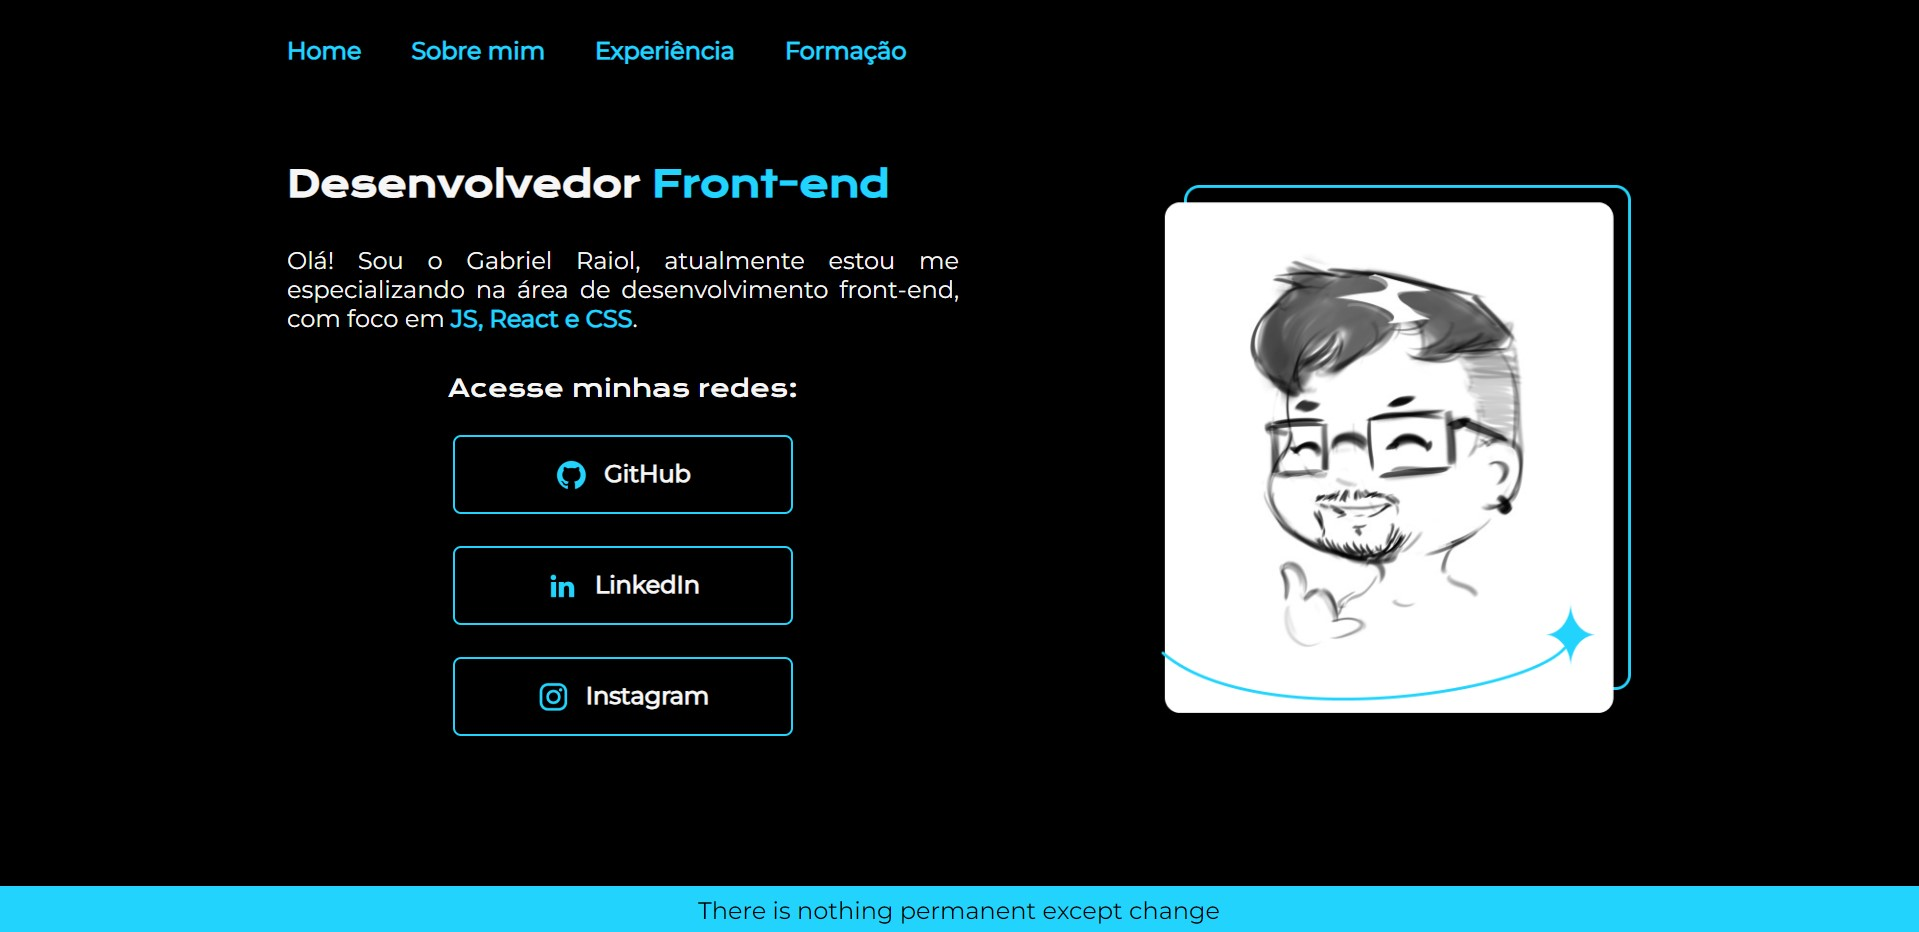
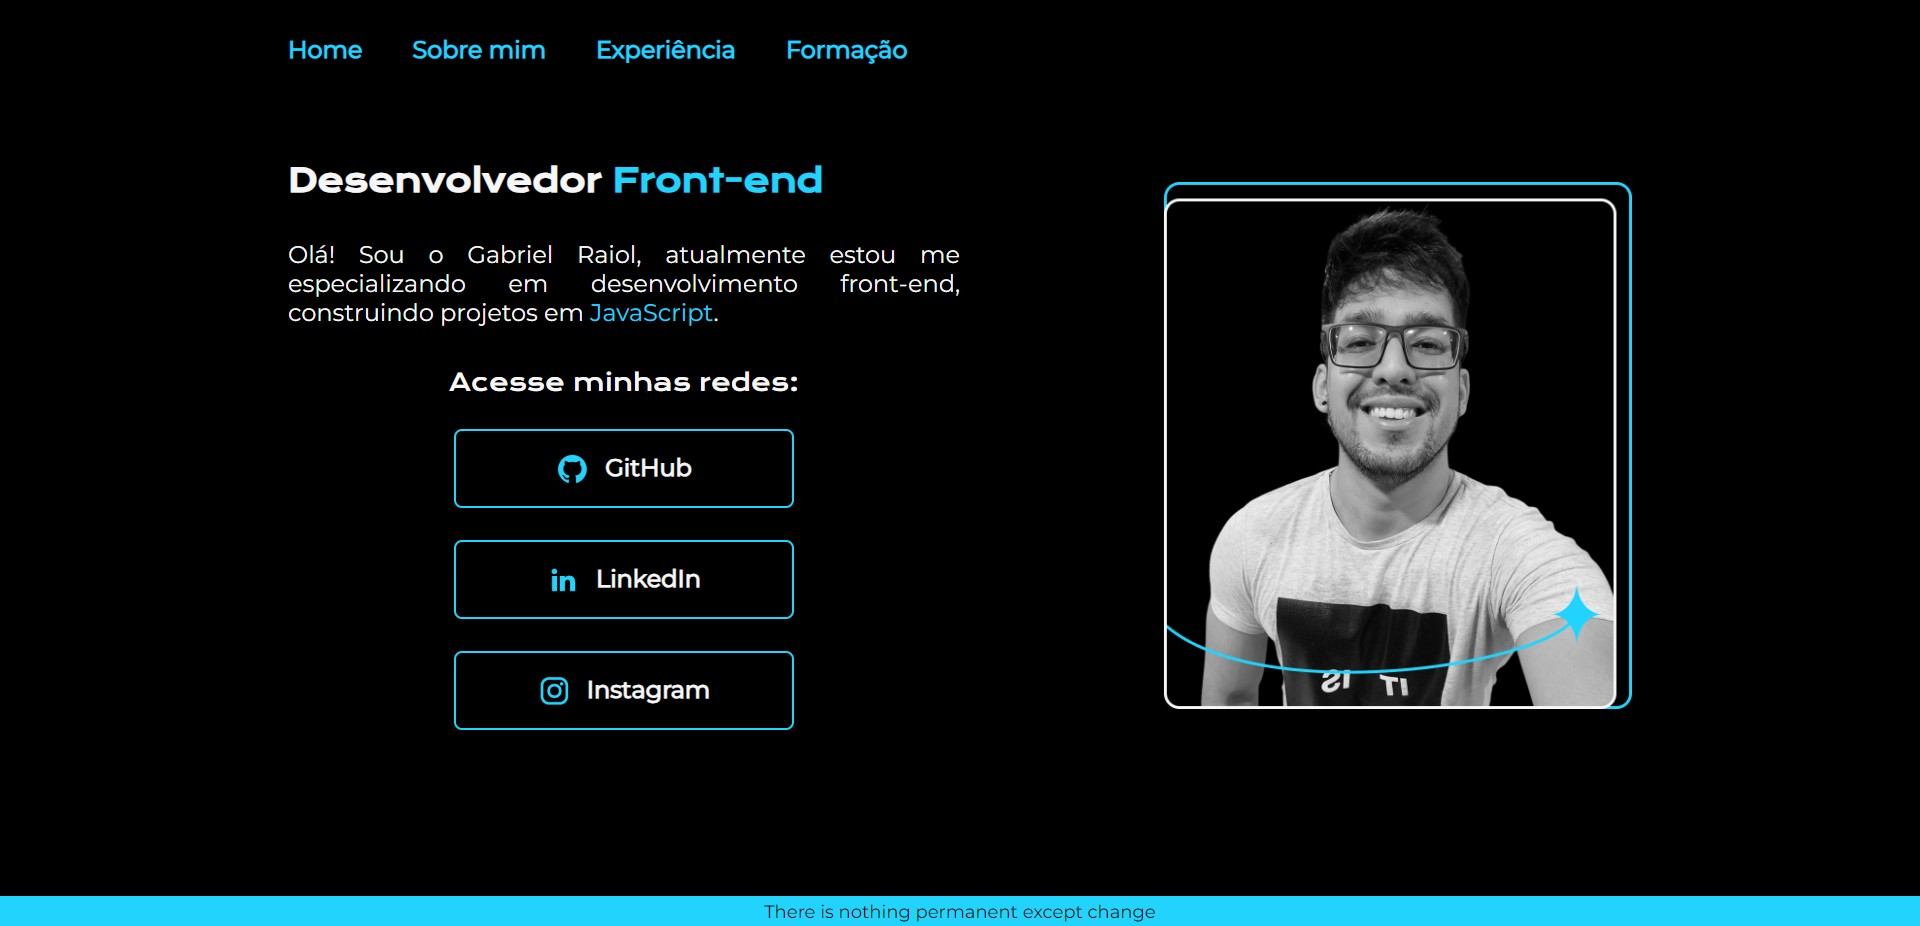
changing image and language on readme.md

diff --git a/readme.md b/readme.md
@@ -1,4 +1,7 @@
 <h1>Gabriel Raiol | Portfolio</h1>
 <br/>
 <img src="assets/portfolio.jpg" alt="portfolio_gabriel_raiol" width= 80%>
-<p> Este é o meu primeiro projeto responsivo utilizando HTML e CSS, e ele fala um pouco sobre a minha trajetória acadêmica e profissional.</p>
+</br>
+<a href="https://raiol.vercel.app/" target="_blank">Link to portfolio</a>
+</br>
+<p>This was my first responsive HTML/CSS project, and I use it to this day. When there is a need I update some information or, if I like some feature learned, add it.</p>
